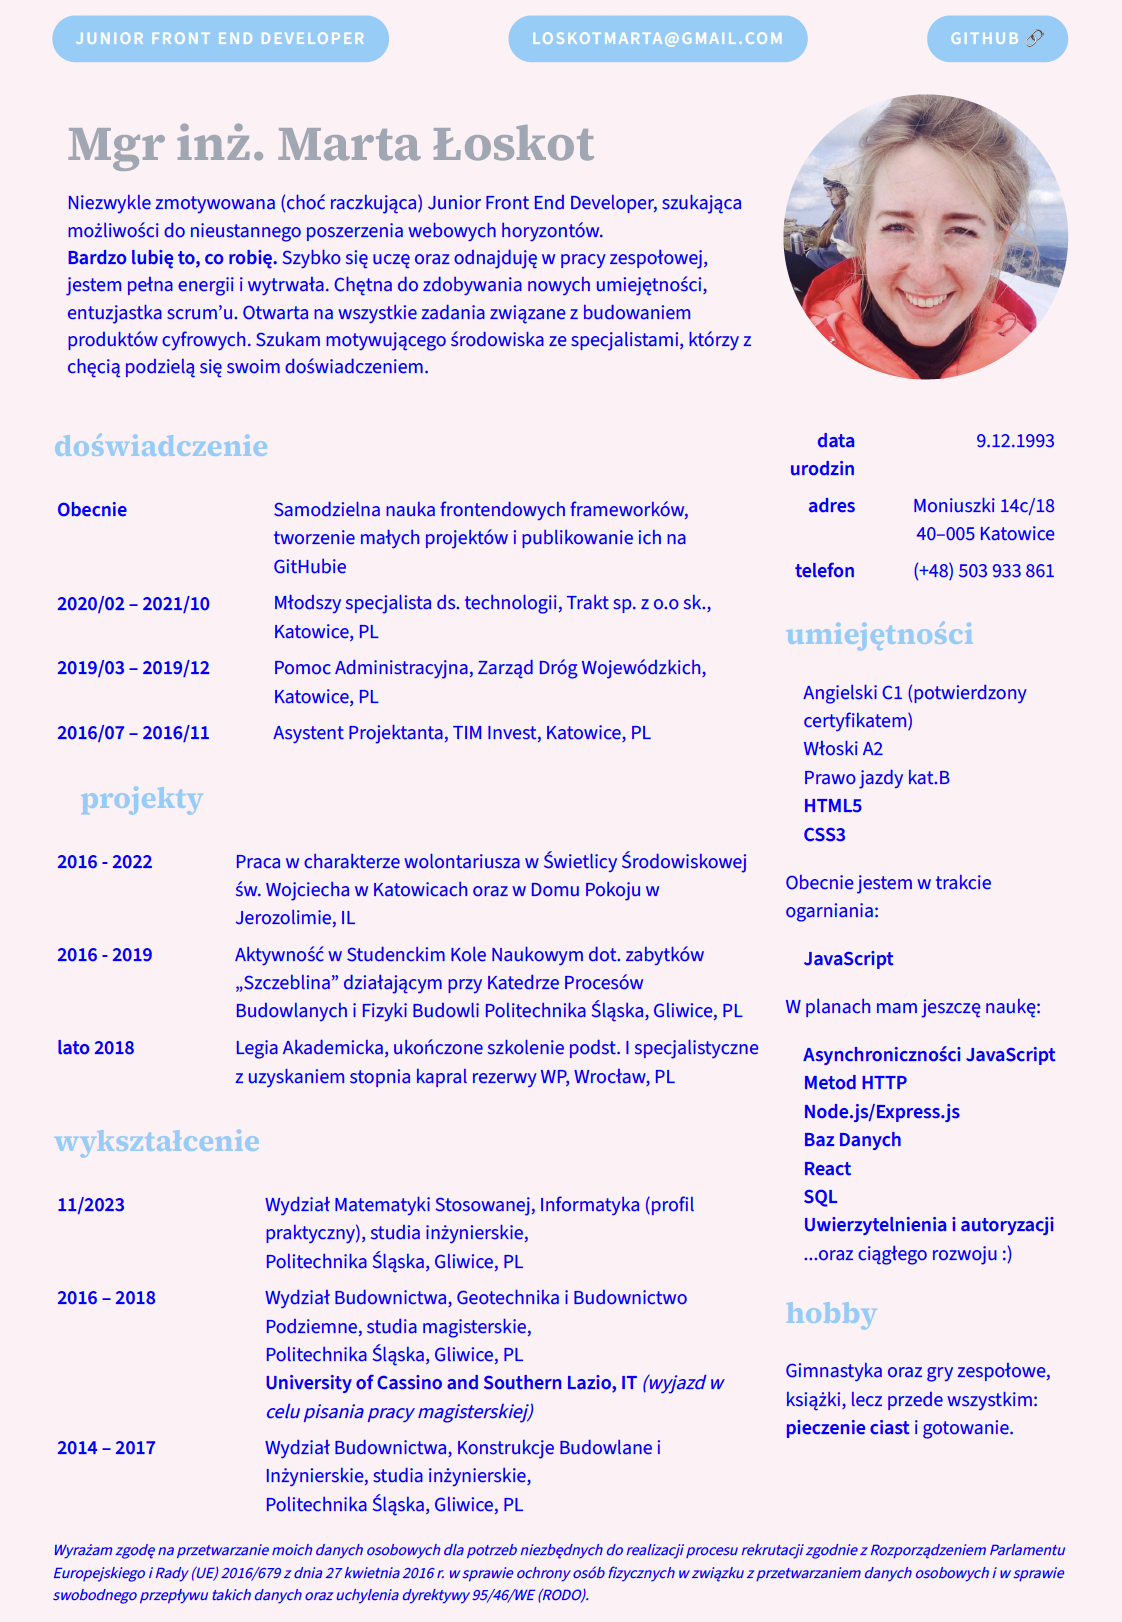
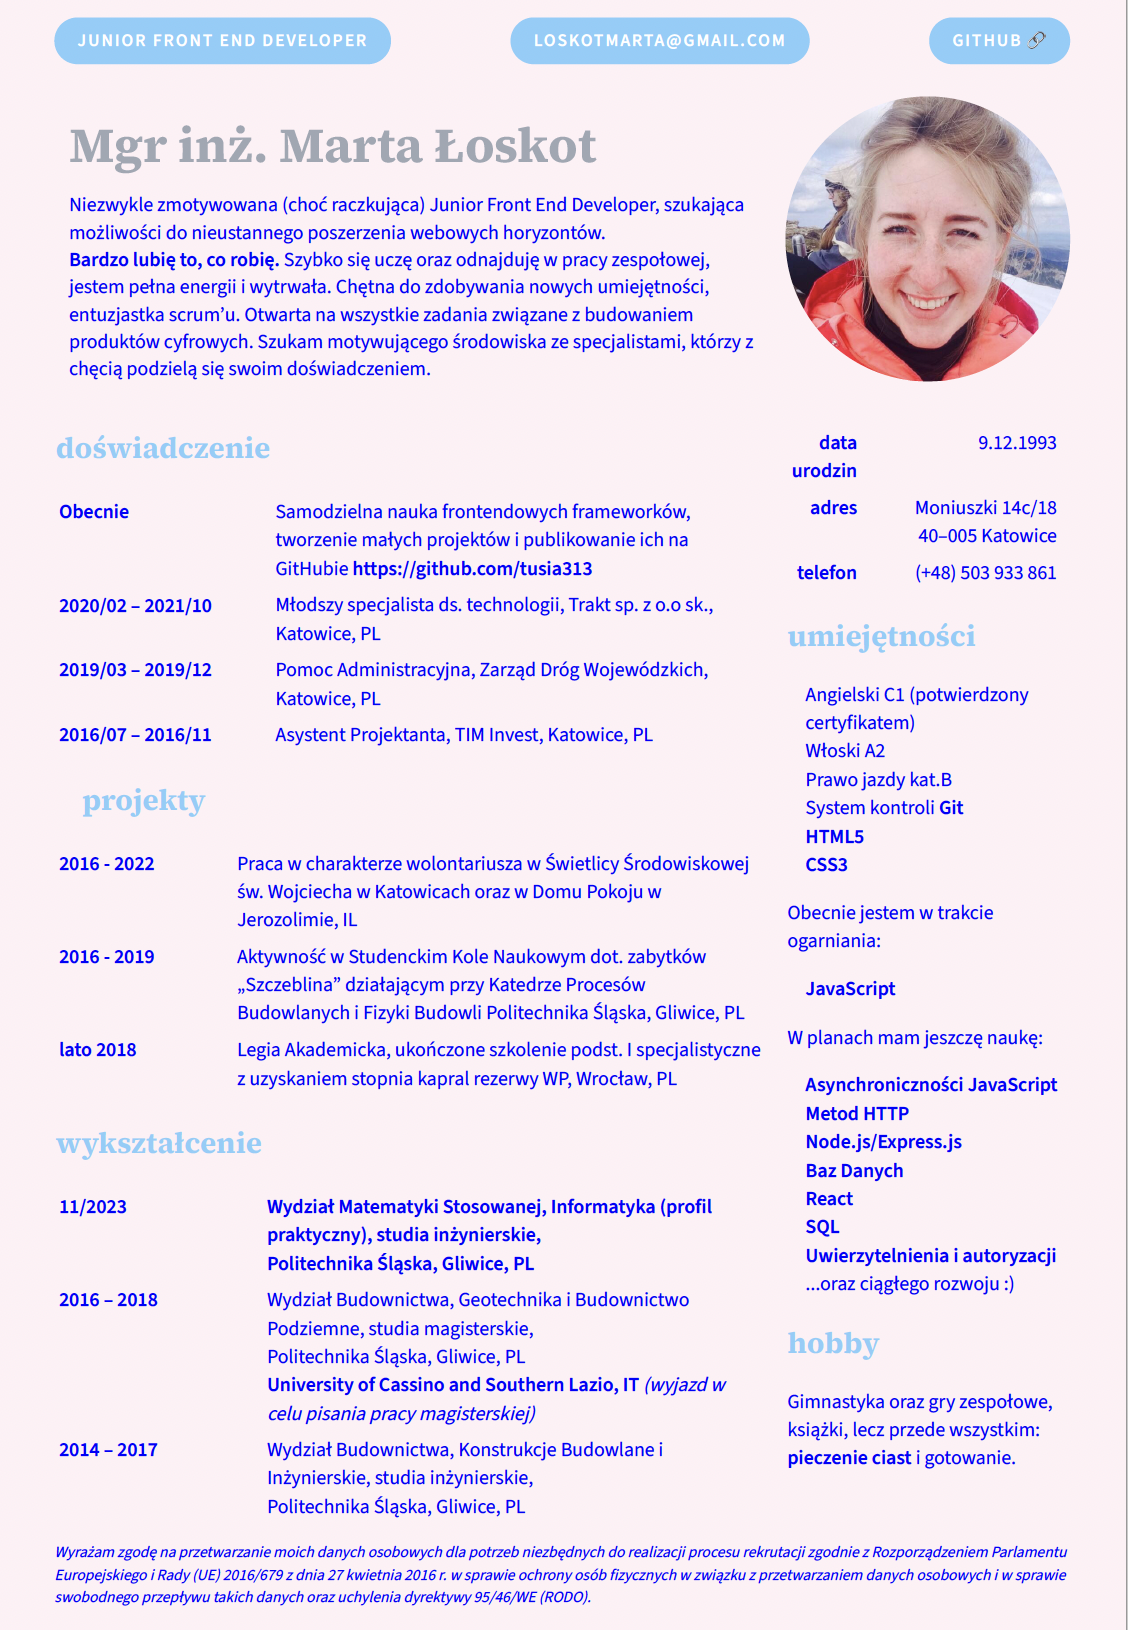
Add little remarks

diff --git a/index.html b/index.html
@@ -51,7 +51,7 @@
                         <td class="date">Obecnie</td>
                         <td>Samodzielna nauka frontendowych frameworków,
                             tworzenie małych projektów i publikowanie ich
-                            na GitHubie</td>
+                            na GitHubie <b>https://github.com/tusia313</b></td>
                     </tr>
                     <tr>
                         <td class="date">2020/02 – 2021/10</td>
@@ -100,7 +100,7 @@
                     </th>
                     <tr>
                         <td class="date">11/2023</td>
-                        <td>Wydział Matematyki Stosowanej, Informatyka (profil praktyczny),  studia inżynierskie, <br/> Politechnika Śląska, Gliwice, PL
+                        <td><b>Wydział Matematyki Stosowanej, Informatyka (profil praktyczny),  studia inżynierskie, <br/> Politechnika Śląska, Gliwice, PL </b>
                         </td>
                     </tr>
                     <tr>
@@ -150,6 +150,7 @@
                         <li>Angielski C1 (potwierdzony certyfikatem)</li>
                         <li>Włoski A2</li>
                         <li>Prawo jazdy kat.B</li>
+                        <li>System kontroli <b>Git</b></li>
                         <li><b>HTML5</b></li>
                         <li><b>CSS3</b></li>
 
